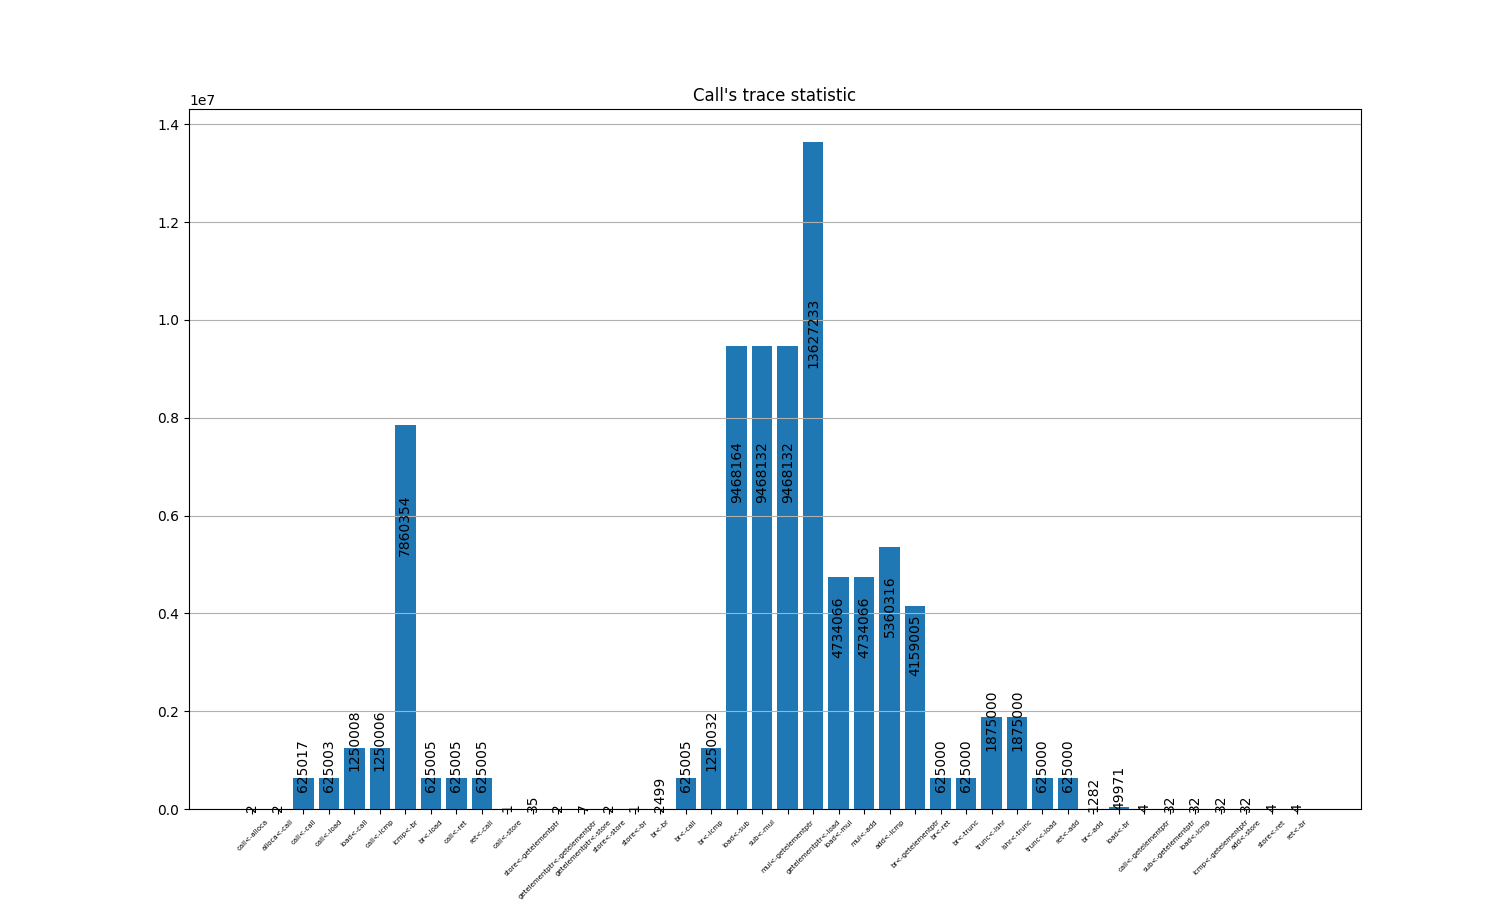
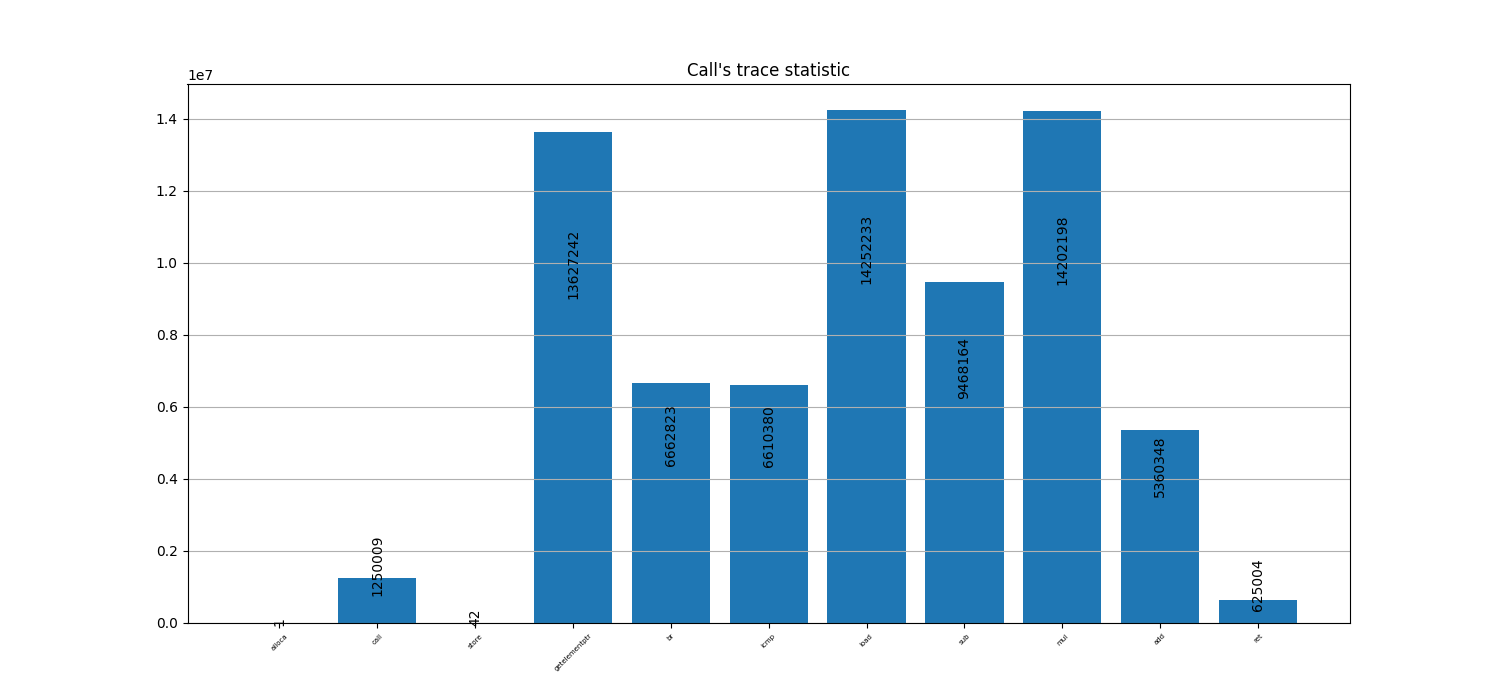
update: recollected only for app.c module

diff --git a/llvm_pass/my_pass.cpp b/llvm_pass/my_pass.cpp
@@ -19,8 +19,6 @@ class InstructionsInfoPass : public PassInfoMixin<InstructionsInfoPass> {
         }
 
         PreservedAnalyses run(Module &M, ModuleAnalysisManager &AM) {
-            outs() << "Dumping trace for module: " << M.getName() << "\n";
-
             //Prepare builder to modify IR
             LLVMContext &Ctx = M.getContext();
             IRBuilder<> builder(Ctx);

diff --git a/llvm_pass/README.md b/llvm_pass/README.md
@@ -4,6 +4,20 @@
 
 Implemented llvm pass which prints names of Users' Instructions. Based on it, statistic presented with user <- use enteries numbers
 
+## Build
+
+To collect statistic only for specific module, app. in our case, we need build app.o first with loaded plugin
+
+```bash
+clang -c -O2 -fpass-plugin=./my_pass.so `$SDL --cflags` ../app/app.c 
+```
+
+Then build applicatin with linking app.o as normal:
+
+```bash
+clang -O2 app.o log.c ../app/main.c ../app/sim.c  $CPPFLAGS $LDFLAGS `$SDL --cflags --libs` -o app
+```
+
 ## Usage
 
 ```bash
@@ -14,8 +28,8 @@ python3 statistic.py win_size
 
 ### Window size=1
 
-![result](./examples/Figure_2.png)
+![result](./examples/Figure_1.png)
 
 ### Window size=2
 
-![result](./examples/Figure_1.png)
+![result](./examples/Figure_2.png)
